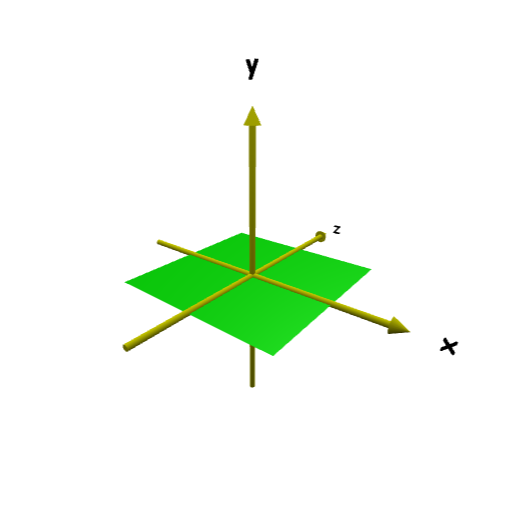
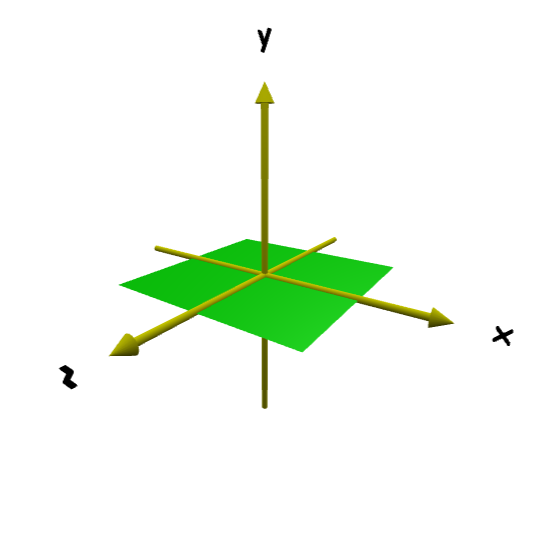
Updated template images with latest Scene changes; Replaced parametric sweeping with solid cube

diff --git a/src/templates/TemplatesSection.js b/src/templates/TemplatesSection.js
@@ -33,7 +33,7 @@ const templates = [
         ]
     ),
     new Template(
-        "Sphere",
+        "Sphere (Surface)",
         "sphere.png",
         [
             "2.5cos(-pi/2+u*pi)cos(-pi+2v*pi)",
@@ -46,16 +46,17 @@ const templates = [
         ]
     ),
     new Template(
-        "Parametric Sweeping",
-        "parametric_sweeping.png",
+        "Cube (Solid)",
+        "cube.png",
         [
-            "(0.7u*cos(-4u*pi+pi/2)+1+v)cos(5v*pi+pi)",
-            "0.7u*sin(-4u*pi+pi/2)+4v",
-            "(0.7u*cos(-4u*pi+pi/2)+1+v)sin(5v*pi+pi)"
+            "1.5(2u-1)",
+            "1.5(2w-1)",
+            "1.5(2v-1)"
         ],
         [
-            new Parameter("u"),
-            new Parameter("v", 100)
+            new Parameter("u", 3),
+            new Parameter("v", 3),
+            new Parameter("w", 3)
         ]
     ),
 ];
